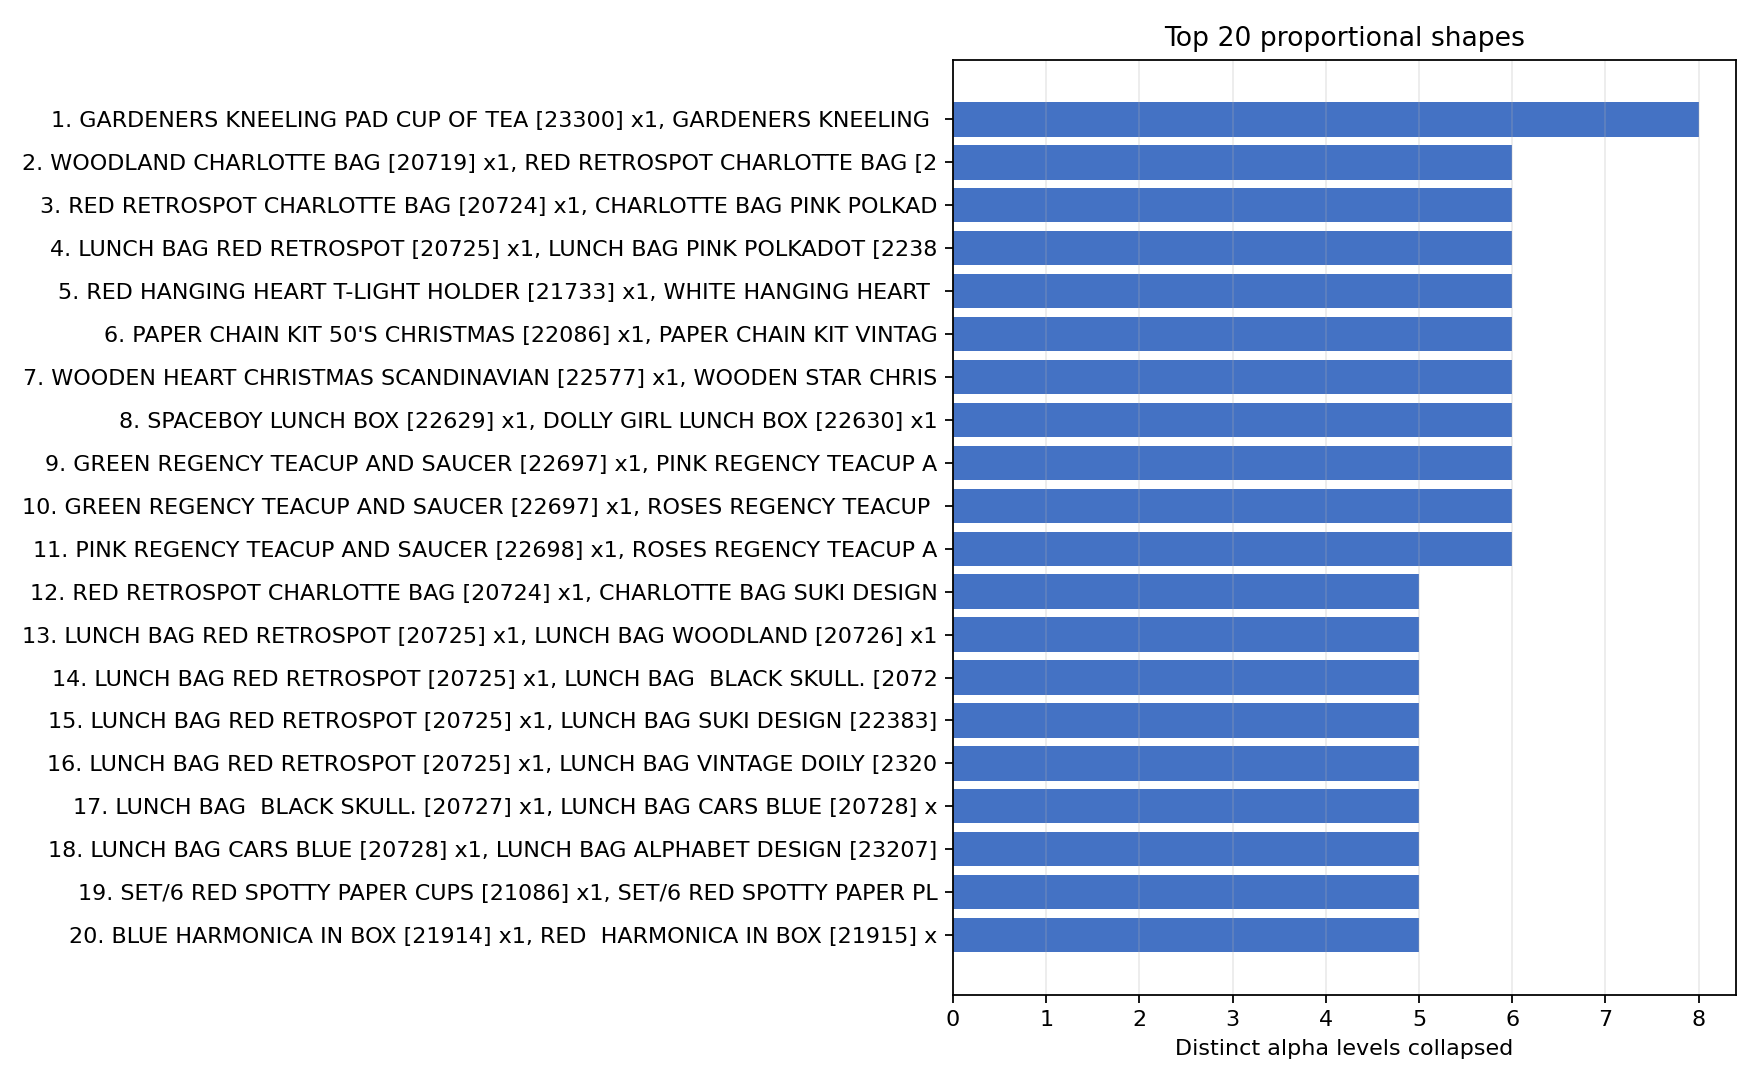
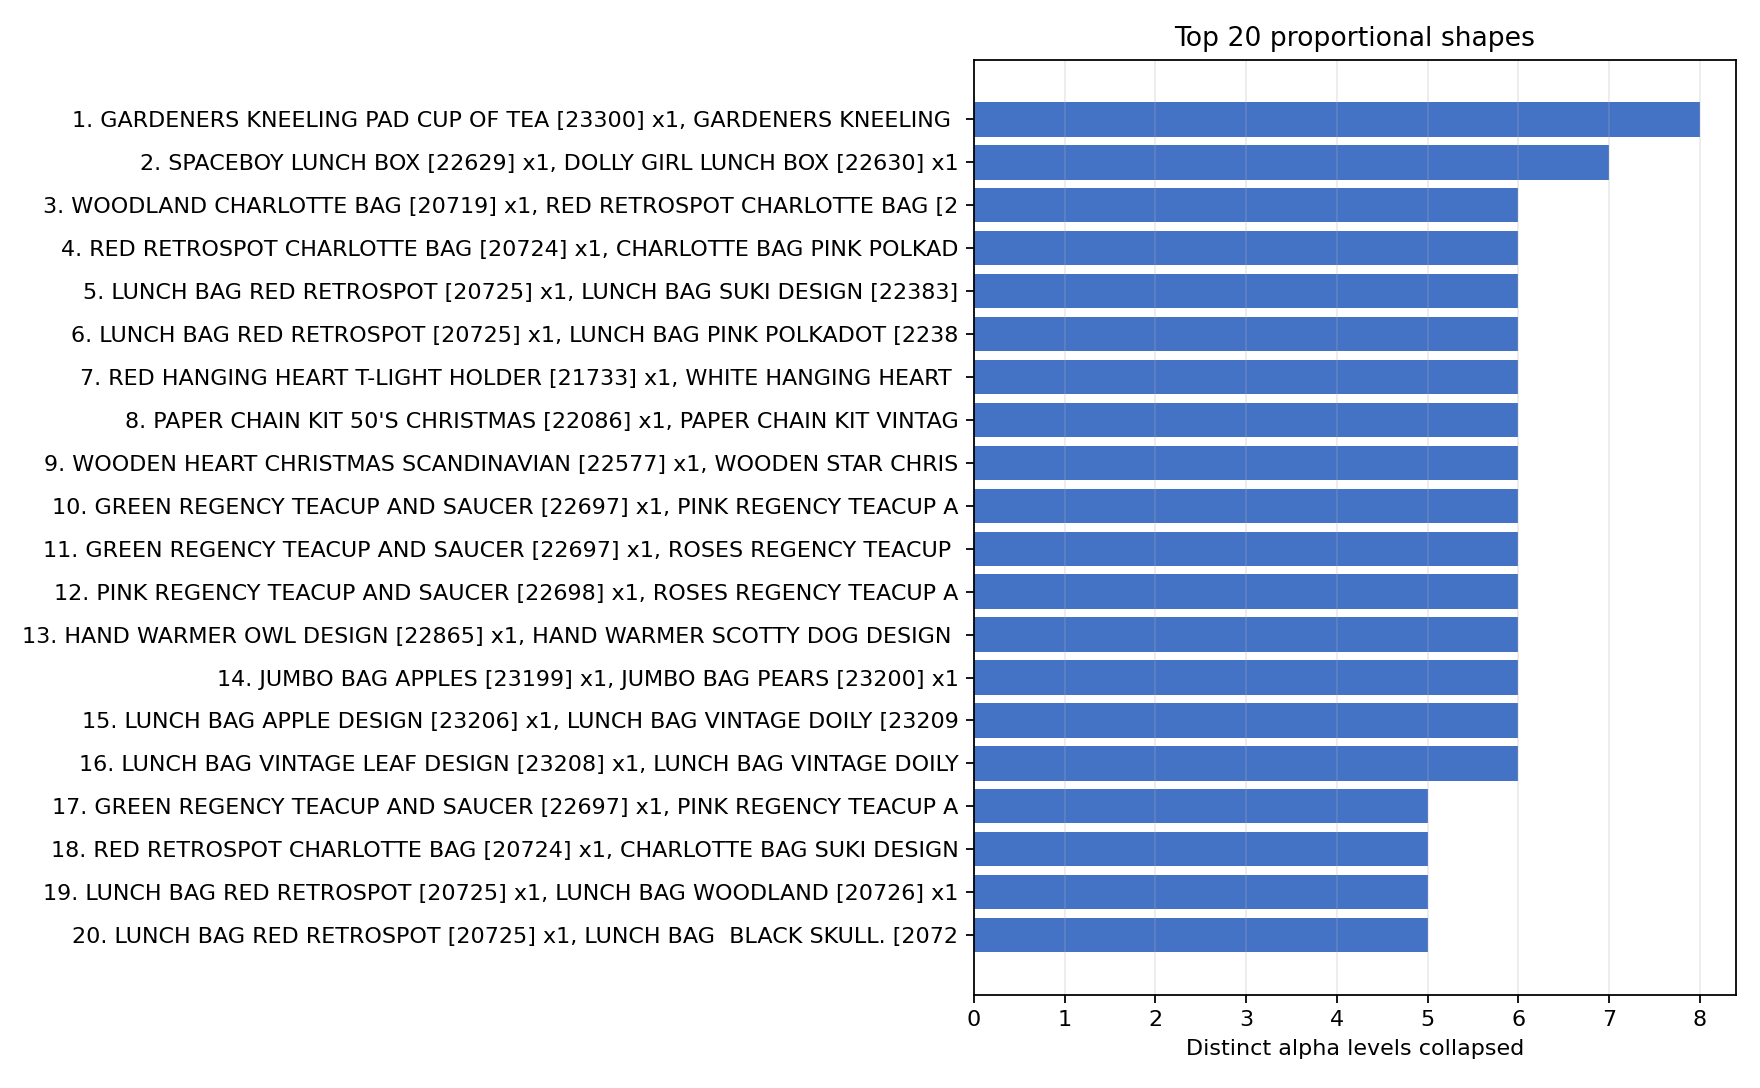
fix: add quantity abs to tests

diff --git a/src/test_pfp_alpha_report.py b/src/test_pfp_alpha_report.py
@@ -77,8 +77,7 @@ def pattern_text(
     items = list(pattern)
     shown = items if max_items is None else items[:max_items]
     text = ", ".join(
-        f"{product_label(item, descriptions)} x{quantity}"
-        for item, quantity in shown
+        f"{product_label(item, descriptions)} x{quantity}" for item, quantity in shown
     )
     if max_items is not None and len(items) > max_items:
         text += f", ... (+{len(items) - max_items})"
@@ -195,10 +194,9 @@ def main() -> None:
         has_descriptions = "Description" in sdf.columns
         if has_descriptions:
             selected_columns.append("Description")
-        rows = (
-            sdf.select(*selected_columns)
-            .rdd.filter(
-                lambda row: row["InvoiceNo"] is not None
+        rows = sdf.select(*selected_columns).rdd.filter(
+            lambda row: (
+                row["InvoiceNo"] is not None
                 and row["StockCode"] is not None
                 and row["Quantity"] is not None
             )
@@ -208,8 +206,10 @@ def main() -> None:
         if has_descriptions:
             description_map = (
                 rows.filter(
-                    lambda row: row["Description"] is not None
-                    and str(row["Description"]).strip() != ""
+                    lambda row: (
+                        row["Description"] is not None
+                        and str(row["Description"]).strip() != ""
+                    )
                 )
                 .map(
                     lambda row: (
@@ -230,7 +230,7 @@ def main() -> None:
             rows.map(
                 lambda row: (
                     (row["InvoiceNo"], row["StockCode"]),
-                    int(row["Quantity"]),
+                    abs(int(row["Quantity"])),
                 )
             )
             .reduceByKey(lambda q1, q2: q1 + q2)
@@ -332,7 +332,10 @@ def main() -> None:
             .collect()
         )
         support_distribution = dict(
-            sorted(support_distribution.items(), key=lambda item: bucket_lower_bound(item[0]))
+            sorted(
+                support_distribution.items(),
+                key=lambda item: bucket_lower_bound(item[0]),
+            )
         )
         alpha_count_distribution = dict(
             proportional_groups.map(lambda group: (group["alpha_count"], 1))

diff --git a/results/online_retail/report.md b/results/online_retail/report.md
@@ -7,7 +7,6 @@
 - Heap size: 1,000
 - PFP groups: 500
 - Local Spark cores: 10
-- Returns/negative quantities: retained
 - Product descriptions: available
 
 ## Dataset summary
@@ -15,21 +14,21 @@
 - Rows: 541,909
 - Transactions: 25,900
 - Distinct products: 4,070
-- Distinct `(product, quantity)` items: 45,280
+- Distinct `(product, quantity)` items: 41,267
 
 ## Main results
 
-- Frequent patterns: 224,306
-- Canonical shapes: 216,278
-- Proportional shapes (more than one alpha): 6,016 (2.78% of shapes)
-- Patterns belonging to proportional shapes: 14,044 (6.26% of patterns)
-- Distinct alpha levels before reduction: 224,306
-- Alpha levels collapsed: 8,028
-- Reduction of distinct alpha levels: 3.58%
+- Frequent patterns: 214,024
+- Canonical shapes: 206,625
+- Proportional shapes (more than one alpha): 5,437 (2.63% of shapes)
+- Patterns belonging to proportional shapes: 12,836 (6.00% of patterns)
+- Distinct alpha levels before reduction: 214,024
+- Alpha levels collapsed: 7,399
+- Reduction of distinct alpha levels: 3.46%
 
 ## Interpretation
 
-Alpha is present in 2.78% of canonical shapes and covers 6.26% of returned patterns. It is therefore a minority structure in this dataset, but it identifies 6,016 distinct proportional families.
+Alpha is present in 2.63% of canonical shapes and covers 6.00% of returned patterns. It is therefore a minority structure in this dataset, but it identifies 5,437 distinct proportional families.
 
 ## 10 most frequent quantitative bundles
 
@@ -37,16 +36,16 @@ Support is the number and percentage of transactions containing the exact produc
 
 | # | Transactions | Share | Bundle |
 |---:|---:|---:|---|
-| 1 | 246 | 0.95% | ROSES REGENCY TEACUP AND SAUCER [22699] x6, GREEN REGENCY TEACUP AND SAUCER [22697] x6 |
-| 2 | 224 | 0.86% | GREEN REGENCY TEACUP AND SAUCER [22697] x6, PINK REGENCY TEACUP AND SAUCER [22698] x6 |
-| 3 | 201 | 0.78% | JUMBO BAG RED RETROSPOT [85099B] x10, JUMBO BAG PINK POLKADOT [22386] x10 |
-| 4 | 199 | 0.77% | LUNCH BAG RED RETROSPOT [20725] x10, LUNCH BAG PINK POLKADOT [22384] x10 |
-| 5 | 199 | 0.77% | ROSES REGENCY TEACUP AND SAUCER [22699] x6, PINK REGENCY TEACUP AND SAUCER [22698] x6 |
+| 1 | 247 | 0.95% | ROSES REGENCY TEACUP AND SAUCER [22699] x6, GREEN REGENCY TEACUP AND SAUCER [22697] x6 |
+| 2 | 222 | 0.86% | GREEN REGENCY TEACUP AND SAUCER [22697] x6, PINK REGENCY TEACUP AND SAUCER [22698] x6 |
+| 3 | 199 | 0.77% | ROSES REGENCY TEACUP AND SAUCER [22699] x6, PINK REGENCY TEACUP AND SAUCER [22698] x6 |
+| 4 | 199 | 0.77% | JUMBO BAG RED RETROSPOT [85099B] x10, JUMBO BAG PINK POLKADOT [22386] x10 |
+| 5 | 197 | 0.76% | LUNCH BAG RED RETROSPOT [20725] x10, LUNCH BAG PINK POLKADOT [22384] x10 |
 | 6 | 194 | 0.75% | LUNCH BAG RED RETROSPOT [20725] x10, LUNCH BAG SUKI DESIGN [22383] x10 |
-| 7 | 183 | 0.71% | JUMBO BAG VINTAGE DOILY [23203] x10, LUNCH BAG VINTAGE DOILY [23209] x10 |
+| 7 | 182 | 0.70% | JUMBO BAG VINTAGE DOILY [23203] x10, LUNCH BAG VINTAGE DOILY [23209] x10 |
 | 8 | 182 | 0.70% | JUMBO BAG RED RETROSPOT [85099B] x10, JUMBO BAG VINTAGE DOILY [23203] x10 |
 | 9 | 181 | 0.70% | LUNCH BAG RED RETROSPOT [20725] x10, LUNCH BAG  BLACK SKULL. [20727] x10 |
-| 10 | 181 | 0.70% | LUNCH BAG SUKI DESIGN [22383] x10, LUNCH BAG CARS BLUE [20728] x10 |
+| 10 | 180 | 0.69% | JUMBO BAG VINTAGE DOILY [23203] x10, JUMBO BAG VINTAGE LEAF [23202] x10 |
 
 ## 10 richest proportional families
 
@@ -54,16 +53,16 @@ Each shape is a quantity ratio. Multiplying it by an alpha produces one of the o
 
 | # | Shape/ratio | Alpha levels | Supports by alpha |
 |---:|---|---|---|
-| 1 | GARDENERS KNEELING PAD CUP OF TEA [23300] x1, GARDENERS KNEELING PAD KEEP CALM [23301] x1 | [1, 2, 3, 4, 5, 6, 12, 24, 48] | 1: 70; 2: 68; 3: 41; 4: 26; 5: 19; 6: 23; 12: 87; 24: 12; 48: 14 |
-| 2 | WOODLAND CHARLOTTE BAG [20719] x1, RED RETROSPOT CHARLOTTE BAG [20724] x1 | [1, 2, 3, 6, 10, 20, 100] | 1: 40; 2: 20; 3: 10; 6: 10; 10: 117; 20: 16; 100: 10 |
-| 3 | RED RETROSPOT CHARLOTTE BAG [20724] x1, CHARLOTTE BAG PINK POLKADOT [22356] x1 | [1, 2, 3, 5, 10, 20, 100] | 1: 38; 2: 25; 3: 15; 5: 10; 10: 133; 20: 17; 100: 10 |
-| 4 | LUNCH BAG RED RETROSPOT [20725] x1, LUNCH BAG PINK POLKADOT [22384] x1 | [1, 2, 3, 4, 10, 20, 100] | 1: 72; 2: 54; 3: 25; 4: 11; 10: 199; 20: 31; 100: 11 |
-| 5 | RED HANGING HEART T-LIGHT HOLDER [21733] x1, WHITE HANGING HEART T-LIGHT HOLDER [85123A] x1 | [1, 2, 3, 4, 6, 12, 32] | 1: 44; 2: 44; 3: 19; 4: 12; 6: 79; 12: 23; 32: 24 |
-| 6 | PAPER CHAIN KIT 50'S CHRISTMAS [22086] x1, PAPER CHAIN KIT VINTAGE CHRISTMAS [22910] x1 | [1, 2, 3, 4, 6, 12, 40] | 1: 51; 2: 30; 3: 23; 4: 13; 6: 95; 12: 42; 40: 36 |
-| 7 | WOODEN HEART CHRISTMAS SCANDINAVIAN [22577] x1, WOODEN STAR CHRISTMAS SCANDINAVIAN [22578] x1 | [1, 6, 10, 12, 20, 24, 48] | 1: 14; 6: 14; 10: 18; 12: 25; 20: 13; 24: 105; 48: 14 |
-| 8 | SPACEBOY LUNCH BOX [22629] x1, DOLLY GIRL LUNCH BOX [22630] x1 | [1, 2, 3, 4, 12, 24, 64] | 1: 73; 2: 45; 3: 29; 4: 13; 12: 175; 24: 19; 64: 13 |
-| 9 | GREEN REGENCY TEACUP AND SAUCER [22697] x1, PINK REGENCY TEACUP AND SAUCER [22698] x1 | [1, 2, 3, 4, 6, 12, 24] | 1: 84; 2: 52; 3: 14; 4: 15; 6: 224; 12: 29; 24: 34 |
-| 10 | GREEN REGENCY TEACUP AND SAUCER [22697] x1, ROSES REGENCY TEACUP AND SAUCER [22699] x1 | [1, 2, 3, 4, 6, 12, 24] | 1: 88; 2: 62; 3: 20; 4: 15; 6: 246; 12: 37; 24: 50 |
+| 1 | GARDENERS KNEELING PAD CUP OF TEA [23300] x1, GARDENERS KNEELING PAD KEEP CALM [23301] x1 | [1, 2, 3, 4, 5, 6, 12, 24, 48] | 1: 62; 2: 68; 3: 41; 4: 26; 5: 20; 6: 24; 12: 85; 24: 12; 48: 14 |
+| 2 | SPACEBOY LUNCH BOX [22629] x1, DOLLY GIRL LUNCH BOX [22630] x1 | [1, 2, 3, 4, 6, 12, 24, 64] | 1: 65; 2: 49; 3: 29; 4: 10; 6: 10; 12: 175; 24: 19; 64: 13 |
+| 3 | WOODLAND CHARLOTTE BAG [20719] x1, RED RETROSPOT CHARLOTTE BAG [20724] x1 | [1, 2, 3, 6, 10, 20, 100] | 1: 36; 2: 19; 3: 12; 6: 10; 10: 117; 20: 16; 100: 10 |
+| 4 | RED RETROSPOT CHARLOTTE BAG [20724] x1, CHARLOTTE BAG PINK POLKADOT [22356] x1 | [1, 2, 3, 5, 10, 20, 100] | 1: 34; 2: 22; 3: 17; 5: 12; 10: 133; 20: 17; 100: 11 |
+| 5 | LUNCH BAG RED RETROSPOT [20725] x1, LUNCH BAG SUKI DESIGN [22383] x1 | [1, 2, 3, 4, 10, 20, 100] | 1: 60; 2: 46; 3: 21; 4: 13; 10: 194; 20: 24; 100: 10 |
+| 6 | LUNCH BAG RED RETROSPOT [20725] x1, LUNCH BAG PINK POLKADOT [22384] x1 | [1, 2, 3, 4, 10, 20, 100] | 1: 62; 2: 57; 3: 27; 4: 11; 10: 197; 20: 31; 100: 11 |
+| 7 | RED HANGING HEART T-LIGHT HOLDER [21733] x1, WHITE HANGING HEART T-LIGHT HOLDER [85123A] x1 | [1, 2, 3, 4, 6, 12, 32] | 1: 40; 2: 41; 3: 17; 4: 12; 6: 80; 12: 23; 32: 24 |
+| 8 | PAPER CHAIN KIT 50'S CHRISTMAS [22086] x1, PAPER CHAIN KIT VINTAGE CHRISTMAS [22910] x1 | [1, 2, 3, 4, 6, 12, 40] | 1: 43; 2: 29; 3: 23; 4: 12; 6: 96; 12: 41; 40: 36 |
+| 9 | WOODEN HEART CHRISTMAS SCANDINAVIAN [22577] x1, WOODEN STAR CHRISTMAS SCANDINAVIAN [22578] x1 | [1, 6, 10, 12, 20, 24, 48] | 1: 12; 6: 13; 10: 16; 12: 24; 20: 14; 24: 105; 48: 14 |
+| 10 | GREEN REGENCY TEACUP AND SAUCER [22697] x1, PINK REGENCY TEACUP AND SAUCER [22698] x1 | [1, 2, 3, 4, 6, 12, 24] | 1: 80; 2: 54; 3: 13; 4: 16; 6: 222; 12: 29; 24: 34 |
 
 ## 10 strongest proportional families by support
 
@@ -71,22 +70,22 @@ These are the proportional families containing at least one of the most frequent
 
 | # | Peak transactions | Shape/ratio | Alpha levels | Supports by alpha |
 |---:|---:|---|---|---|
-| 1 | 246 | GREEN REGENCY TEACUP AND SAUCER [22697] x1, ROSES REGENCY TEACUP AND SAUCER [22699] x1 | [1, 2, 3, 4, 6, 12, 24] | 1: 88; 2: 62; 3: 20; 4: 15; 6: 246; 12: 37; 24: 50 |
-| 2 | 224 | GREEN REGENCY TEACUP AND SAUCER [22697] x1, PINK REGENCY TEACUP AND SAUCER [22698] x1 | [1, 2, 3, 4, 6, 12, 24] | 1: 84; 2: 52; 3: 14; 4: 15; 6: 224; 12: 29; 24: 34 |
-| 3 | 201 | JUMBO BAG PINK POLKADOT [22386] x1, JUMBO BAG RED RETROSPOT [85099B] x1 | [1, 2, 3, 10, 20, 100] | 1: 63; 2: 50; 3: 23; 10: 201; 20: 24; 100: 28 |
-| 4 | 199 | LUNCH BAG RED RETROSPOT [20725] x1, LUNCH BAG PINK POLKADOT [22384] x1 | [1, 2, 3, 4, 10, 20, 100] | 1: 72; 2: 54; 3: 25; 4: 11; 10: 199; 20: 31; 100: 11 |
-| 5 | 199 | PINK REGENCY TEACUP AND SAUCER [22698] x1, ROSES REGENCY TEACUP AND SAUCER [22699] x1 | [1, 2, 3, 4, 6, 12, 24] | 1: 77; 2: 46; 3: 15; 4: 16; 6: 199; 12: 27; 24: 36 |
-| 6 | 194 | LUNCH BAG RED RETROSPOT [20725] x1, LUNCH BAG SUKI DESIGN [22383] x1 | [1, 2, 3, 4, 10, 20] | 1: 67; 2: 43; 3: 19; 4: 10; 10: 194; 20: 24 |
-| 7 | 183 | JUMBO BAG VINTAGE DOILY [23203] x1, LUNCH BAG VINTAGE DOILY [23209] x1 | [1, 2, 10, 20, 100] | 1: 32; 2: 18; 10: 183; 20: 20; 100: 11 |
-| 8 | 182 | JUMBO BAG VINTAGE DOILY [23203] x1, JUMBO BAG RED RETROSPOT [85099B] x1 | [1, 2, 3, 10, 20, 100] | 1: 34; 2: 27; 3: 14; 10: 182; 20: 34; 100: 22 |
-| 9 | 181 | LUNCH BAG RED RETROSPOT [20725] x1, LUNCH BAG  BLACK SKULL. [20727] x1 | [1, 2, 3, 5, 10, 20] | 1: 56; 2: 43; 3: 25; 5: 10; 10: 181; 20: 28 |
-| 10 | 181 | JUMBO BAG VINTAGE LEAF [23202] x1, JUMBO BAG VINTAGE DOILY [23203] x1 | [1, 2, 3, 10, 20, 100] | 1: 46; 2: 21; 3: 15; 10: 181; 20: 30; 100: 21 |
+| 1 | 247 | GREEN REGENCY TEACUP AND SAUCER [22697] x1, ROSES REGENCY TEACUP AND SAUCER [22699] x1 | [1, 2, 3, 4, 6, 12, 24] | 1: 88; 2: 67; 3: 20; 4: 18; 6: 247; 12: 37; 24: 49 |
+| 2 | 222 | GREEN REGENCY TEACUP AND SAUCER [22697] x1, PINK REGENCY TEACUP AND SAUCER [22698] x1 | [1, 2, 3, 4, 6, 12, 24] | 1: 80; 2: 54; 3: 13; 4: 16; 6: 222; 12: 29; 24: 34 |
+| 3 | 199 | PINK REGENCY TEACUP AND SAUCER [22698] x1, ROSES REGENCY TEACUP AND SAUCER [22699] x1 | [1, 2, 3, 4, 6, 12, 24] | 1: 75; 2: 48; 3: 15; 4: 17; 6: 199; 12: 27; 24: 35 |
+| 4 | 199 | JUMBO BAG PINK POLKADOT [22386] x1, JUMBO BAG RED RETROSPOT [85099B] x1 | [1, 2, 3, 10, 20, 100] | 1: 61; 2: 42; 3: 24; 10: 199; 20: 25; 100: 29 |
+| 5 | 197 | LUNCH BAG RED RETROSPOT [20725] x1, LUNCH BAG PINK POLKADOT [22384] x1 | [1, 2, 3, 4, 10, 20, 100] | 1: 62; 2: 57; 3: 27; 4: 11; 10: 197; 20: 31; 100: 11 |
+| 6 | 194 | LUNCH BAG RED RETROSPOT [20725] x1, LUNCH BAG SUKI DESIGN [22383] x1 | [1, 2, 3, 4, 10, 20, 100] | 1: 60; 2: 46; 3: 21; 4: 13; 10: 194; 20: 24; 100: 10 |
+| 7 | 182 | JUMBO BAG VINTAGE DOILY [23203] x1, LUNCH BAG VINTAGE DOILY [23209] x1 | [1, 2, 3, 10, 20, 100] | 1: 29; 2: 19; 3: 11; 10: 182; 20: 20; 100: 11 |
+| 8 | 182 | JUMBO BAG VINTAGE DOILY [23203] x1, JUMBO BAG RED RETROSPOT [85099B] x1 | [1, 2, 3, 10, 20, 100] | 1: 32; 2: 23; 3: 15; 10: 182; 20: 34; 100: 23 |
+| 9 | 181 | LUNCH BAG RED RETROSPOT [20725] x1, LUNCH BAG  BLACK SKULL. [20727] x1 | [1, 2, 3, 5, 10, 20] | 1: 42; 2: 43; 3: 27; 5: 10; 10: 181; 20: 28 |
+| 10 | 180 | JUMBO BAG VINTAGE LEAF [23202] x1, JUMBO BAG VINTAGE DOILY [23203] x1 | [1, 2, 3, 10, 20, 100] | 1: 43; 2: 20; 3: 15; 10: 180; 20: 30; 100: 22 |
 
 ## Technical appendix
 
-- Returned-pattern lengths (`length: count`): `{"2": 124838, "3": 83305, "4": 11398, "5": 3475, "6": 946, "7": 266, "8": 66, "9": 11, "10": 1}`
-- Returned-pattern support buckets (`range: count`): `{"8-15": 177179, "16-31": 42737, "32-63": 3728, "64-127": 589, "128-255": 73}`
-- Alpha counts among proportional shapes (`alphas: shapes`): `{"2": 4610, "3": 1019, "4": 226, "5": 116, "6": 34, "7": 10, "9": 1}`
+- Returned-pattern lengths (`length: count`): `{"2": 116916, "3": 80958, "4": 11280, "5": 3513, "6": 963, "7": 299, "8": 81, "9": 13, "10": 1}`
+- Returned-pattern support buckets (`range: count`): `{"8-15": 169548, "16-31": 40274, "32-63": 3554, "64-127": 575, "128-255": 73}`
+- Alpha counts among proportional shapes (`alphas: shapes`): `{"2": 4099, "3": 964, "4": 198, "5": 121, "6": 39, "7": 14, "8": 1, "9": 1}`
 - These distributions describe the top-K-limited patterns returned by the configured PFP run; they are not a complete enumeration of every possible frequent pattern.
 
 ## Visual summary
